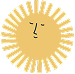
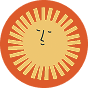
added: changes of new design

diff --git a/script.js b/script.js
@@ -12,14 +12,55 @@ var imageBounds = [
     zoom: 14,                   // Beginzoomniveau
     minZoom: 14,                // Minimum zoomniveau
     maxZoom: 20,                // Maximum zoomniveau
-    maxBounds: imageBounds      // Stel de maximale grenzen in
+    maxBounds: imageBounds,
+    zoomControl: false       // Stel de maximale grenzen in
   });
 
+
+  //---------------Knoppen zoemen--------------------
+document.getElementById('zoom-in').addEventListener('click', function() {
+  map.zoomIn();
+});
+
+document.getElementById('zoom-out').addEventListener('click', function() {
+  map.zoomOut();
+});
+
+// Functie om de zichtbaarheid van de zoomknoppen te beheren
+function updateZoomButtons() {
+  const zoomInButton = document.getElementById('zoom-in');
+  const zoomOutButton = document.getElementById('zoom-out');
+
+  // Controleer of inzoomen mogelijk is
+  if (map.getZoom() < map.getMaxZoom()) {
+    zoomInButton.style.display = 'block'; // Toon de knop voor inzoomen
+  } else {
+    zoomInButton.style.display = 'none'; // Verberg de knop voor inzoomen
+  }
+
+  // Controleer of uitzoomen mogelijk is
+  if (map.getZoom() > map.getMinZoom()) {
+    zoomOutButton.style.display = 'block'; // Toon de knop voor uitzoomen
+  } else {
+    zoomOutButton.style.display = 'none'; // Verberg de knop voor uitzoomen
+  }
+}
+
+// Call de functie elke keer dat de zoom verandert
+map.on('zoomend', function() {
+  updateZoomButtons();
+});
+
+// Initieel de zichtbaarheid van de knoppen bij pagina laden
+updateZoomButtons();
+
+//---------------Echter streetview--------------------
   // Voeg de OpenStreetMap tegellaag toe
   /*L.tileLayer('https://{s}.tile.openstreetmap.org/{z}/{x}/{y}.png', {
     attribution: '&copy; <a href="https://www.openstreetmap.org/copyright">OpenStreetMap</a> contributors'
   }).addTo(map);*/
 
+//---------------Onze kaart--------------------
   // Voeg de zelfgemaakte kaart als een afbeelding-overlay toe
   var imageUrl = 'images/kaart_8.png';  
   var imageOverlay = L.imageOverlay(imageUrl, imageBounds).addTo(map);
@@ -27,6 +68,7 @@ var imageBounds = [
   // Voeg een CSS-klasse toe om de afbeelding te draaien
   imageOverlay.getElement().classList.add('leaflet-rotated');
 
+//---------------Markers--------------------
   // Voeg markers toe voor de hoeken
   /*L.marker([50.98717954450199, 4.495553970336915]).addTo(map).bindPopup('Linkerbovenhoek');
   L.marker([50.9886383295914, 4.529027938842774]).addTo(map).bindPopup('Rechteronderhoek');
@@ -36,6 +78,7 @@ var imageBounds = [
   // Voeg een rechthoek toe om de grenzen aan te geven
   //L.polygon(imageBounds, {color: "red", weight: 1}).addTo(map);
 
+//---------------Coordinaten zoeken--------------------
   // Voeg een klikgebeurtenis toe om de coördinaten weer te geven
   map.on('click', function(e) {
     var coord = e.latlng;
@@ -50,16 +93,24 @@ var imageBounds = [
 const openBtn = document.getElementById('open-custom-overlay');
 const overlay = document.getElementById('custom-overlay');
 
-openBtn.addEventListener('click', () => {
-  overlay.style.display = 'flex';
+// Open overlay
+openBtn.addEventListener('click', (e) => {
+  e.stopPropagation();
+  overlay.classList.add('active');
 });
 
 overlay.addEventListener('click', () => {
-  overlay.style.display = 'none';
+  overlay.classList.remove('active');
 });
 
 
-//------------------------------------------------------------------
+// Stop klikbubbels binnen de overlay (knoppen en andere elementen)
+Array.from(overlay.children).forEach((child) => {
+  child.addEventListener('click', (e) => {
+    e.stopPropagation();
+  });
+});
+//------------------------iconen plaatsen------------------------------------------
 // Maak één custom icon voor parking
 var parkingIcon = L.icon({
   iconUrl: 'images/parking_icon.png',  // Hetzelfde PNG bestand voor alle parkeermarkers

diff --git a/style.css b/style.css
@@ -31,6 +31,7 @@ button {
     padding: 1rem;
     border-top-left-radius: 15px;
     border-top-right-radius: 15px;
+    box-shadow: 0px -3px 10px 0px rgba(230, 215, 174, 0.8);
 
     display: flex;
     justify-content: space-around; 
@@ -38,10 +39,17 @@ button {
 }
 
 .nav_up{
-    margin: 1.5em;
+    position: fixed;
+    top: 0;
+    left: 0;
+    width: 100%;
+    margin: 0;
+    padding: 1.5em;
     display: flex;
-    justify-content: space-between; 
+    justify-content: space-between;
     align-items: center;
+    z-index: 1000;
+    background: none; 
 }
 
 #open-custom-overlay{
@@ -50,8 +58,7 @@ button {
     align-items: center;
     text-decoration: none;
     text-align: left;
-    color: #FFF8E6;
-    background-color: #203336;
+    color: #203336;
     border: none;
 }
 
@@ -72,6 +79,12 @@ button {
     border-top-left-radius: 20px;
     border-bottom-left-radius: 20px;
     box-shadow: -5px 0 15px rgba(0,0,0,0.5);
+}
+
+#custom-overlay.active {
+  display: flex;
+  pointer-events: auto;
+  opacity: 1;
 }
   
 #custom-overlay h2 {
@@ -113,14 +126,14 @@ button {
 
 }
 
-#map{
-    width: 90%; 
-    height: 600px;
-    border: 2px solid black;
-    margin: 2% auto;
-    position: relative;
+#map {
+    position: fixed;
+    top: 0;
+    left: 0;
+    width: 100%;
+    height: 100%;
+    z-index: 0;
     background-color: #FFF8E6;
-    border-radius: 10px; 
 }
 
 .leaflet-rotated {
@@ -128,7 +141,8 @@ button {
     transform: scale(1.5) rotate(45deg);
 }
 
-#filter_text{
-    font-family: 'Poppins';
-    font-weight: bold;
-    font-size: 1.5em;}
+#custom-overlay.active {
+  display: flex;
+  pointer-events: auto;
+  opacity: 1;
+}

diff --git a/kaart.html b/kaart.html
@@ -16,12 +16,14 @@
     <a href="#">
       <img src="images/zon.png" alt="">
     </a>
-
-      <button id="open-custom-overlay">
-      <img src="images/Filters.png" alt="">
-      <p id="filter_text">Filter</p>
+    <div>
+      <button id="zoom-in">
+        <img src="images/plus.png" alt="Zoom in" class="logo">
       </button>
-
+      <button id="zoom-out">
+        <img src="images/min.png" alt="Zoom out" class="logo">
+      </button>
+    </div>
   </div>
 
   <div id="custom-overlay">
@@ -51,12 +53,19 @@
   <nav class="nav_down">
       <button id='filterToilet'>
       <img src="images/Vector.png" alt="Logo" class="logo">
+      <p>Horeca</p>
       </button>
       <button id="filterActiviteiten">
         <img src="images/Evenementen.png" alt="Logo" class="logo">
+        <p>Eventlocaties</p>
       </button>
       <button id="filterParking">
         <img src="images/Parking.png" alt="Logo" class="logo">
+        <p>Parking</p>
+      </button>
+      <button id="open-custom-overlay">
+        <img src="images/Points.png" alt="Logo" class="logo">
+        <p>Meer</p>
       </button>
   </nav>
 
